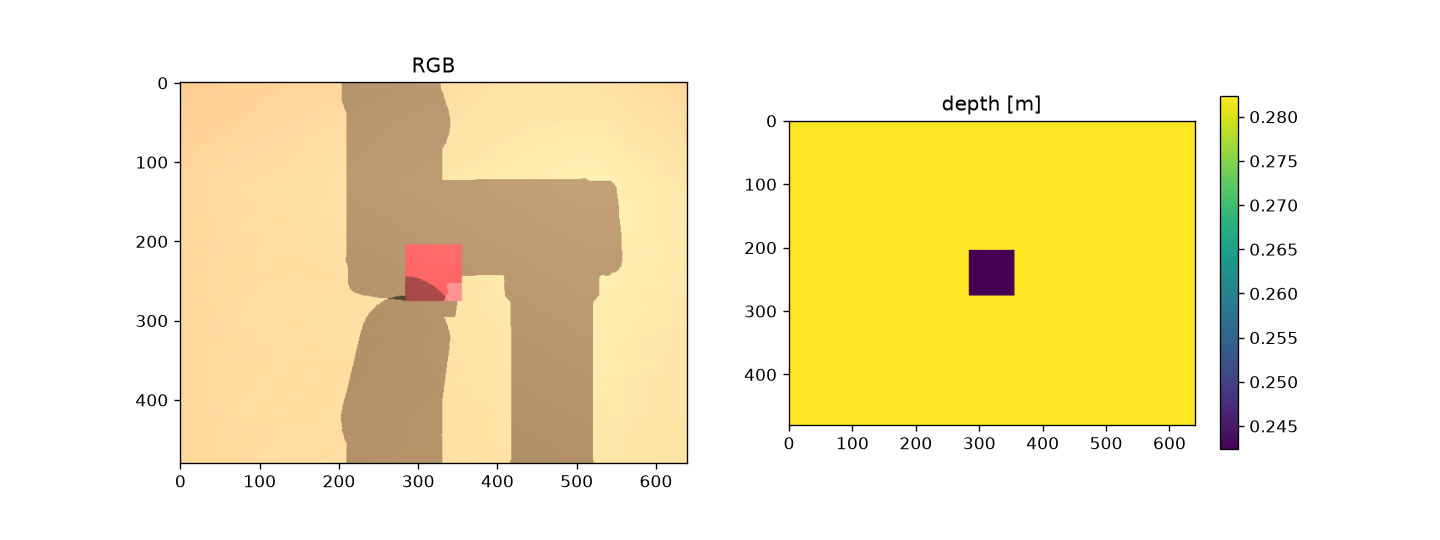
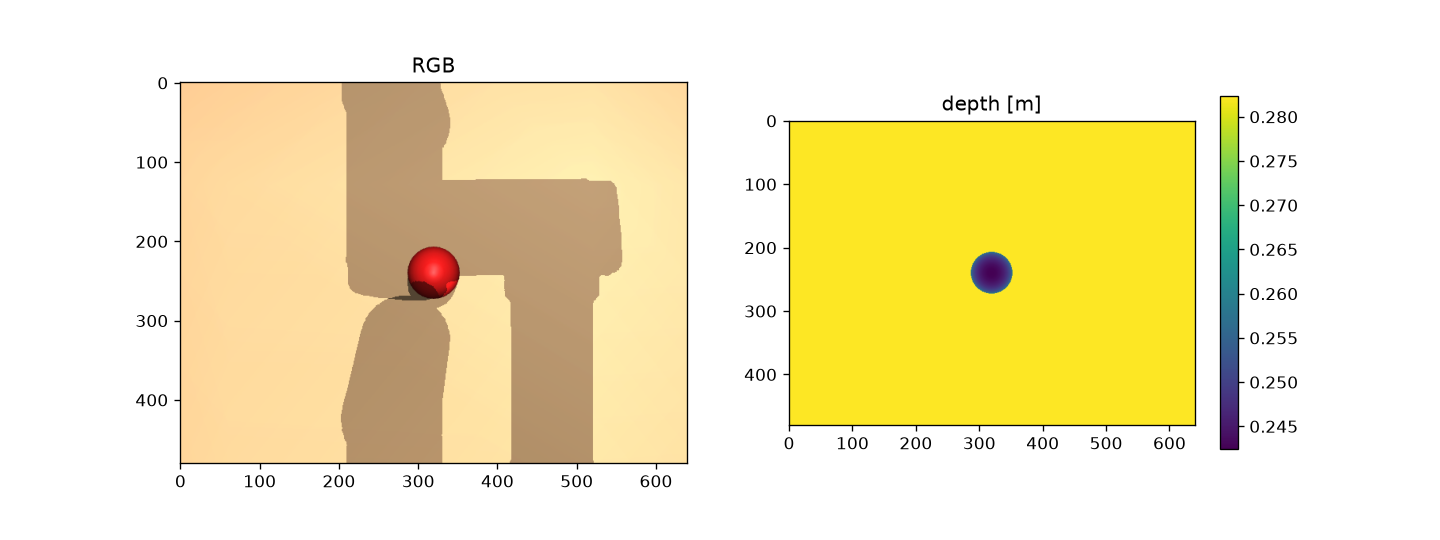
9 - fixing step 7

diff --git a/step3_Aalia_Work/step2_frames.py b/step3_Aalia_Work/step2_frames.py
@@ -10,7 +10,7 @@ Frame chain:
 W_T_C comes from the joint angles (MuJoCo's forward kinematics), so it is a
 measurement, not ground truth. Transforms are 4x4 arrays; point sets are 3 x N.
 
-Run:  python frames.py   -> localises the cube from one RGB-D frame and compares with ground truth
+Run:  python frames.py   -> localises the sphere from one RGB-D frame and compares with ground truth
 """
 
 import numpy as np
@@ -64,7 +64,7 @@ if __name__ == "__main__":
     with cm.WristCamera(model) as cam:
         cm.pose_arm_to_look_down(model, data, cam.cam_id)
         T_wc = T_world_cam(data, cam.cam_id)
-        # offset the cube from the optical axis so the x/y directions are exercised
+        # offset the sphere from the optical axis so the x/y directions are exercised
         hit = cm.table_point_on_optical_axis(data, cam.cam_id)
         env.place_object(model, data, hit[:2] + 0.05 * T_wc[:2, 0] + 0.03 * T_wc[:2, 1])
         rgb, depth = cam.render_rgbd(data)
@@ -79,4 +79,4 @@ if __name__ == "__main__":
     print("estimate  ", np.round(p_est, 4))
     print("true      ", np.round(p_true, 4))
     print("error [mm]", np.round(1000 * (p_est - p_true), 1),
-          f"(z is about +{1000 * env.OBJ_HALF:.0f} mm: only the cube's top face is visible)")
+          f"(z is about +{1000 * env.OBJ_HALF:.0f} mm: only the sphere's top face is visible)")

diff --git a/step1_Main/environment.py b/step1_Main/environment.py
@@ -32,7 +32,7 @@ CAM_OFFSET_FLANGE = (0.0, 0.07, 0.02)   # camera position in the flange frame: 7
 TABLE_TOP_Z = 0.001
 TABLE_HALF = (0.6, 0.6, 0.02)
 OBJ_NAME = "target"
-OBJ_HALF = 0.02                         # 4 cm cube
+OBJ_HALF = 0.02                         # sphere radius -> 4 cm diameter
 OBJ_RGBA = (0.85, 0.10, 0.10, 1.0)
 # Where the object may be placed: (x range, y range) [m]. Currently the area the
 # camera sees from the look-down test pose; widen once the approach motion exists.
@@ -77,9 +77,9 @@ def build_scene(robot_xml=ROBOT_XML, calibration_board=False) -> mujoco.MjModel:
     obj.name, obj.pos = OBJ_NAME, (0.13, -0.22, TABLE_TOP_Z + OBJ_HALF)
     joint = obj.add_joint()                                   # free joint: can be moved and picked up
     joint.name, joint.type = OBJ_NAME + "_free", mujoco.mjtJoint.mjJNT_FREE
-    box = obj.add_geom()
-    box.name, box.type = OBJ_NAME + "_geom", mujoco.mjtGeom.mjGEOM_BOX
-    box.size, box.rgba = (OBJ_HALF,) * 3, OBJ_RGBA
+    ball = obj.add_geom()
+    ball.name, ball.type = OBJ_NAME + "_geom", mujoco.mjtGeom.mjGEOM_SPHERE
+    ball.size, ball.rgba = (OBJ_HALF, 0, 0), OBJ_RGBA
 
     light = world.add_light()
     light.pos, light.dir, light.diffuse = (0, 0, 2.0), (0, 0, -1.0), (0.7, 0.7, 0.7)

diff --git a/step3_Aalia_Work/step6_perception.py b/step3_Aalia_Work/step6_perception.py
@@ -54,6 +54,10 @@ class ObjectPerception:
 
     def measure(self, data):
         rgb, depth = self.cam.render_rgbd(data)
+        return self.measure_images(rgb, depth, data)
+
+    def measure_images(self, rgb, depth, data):
+        """Same as measure(), but on images already rendered (noise is added here, fresh each call)."""
         if self.noise:
             rgb, depth = noisy_rgb(rgb, self.rng), noisy_depth(depth, self.rng)
 
